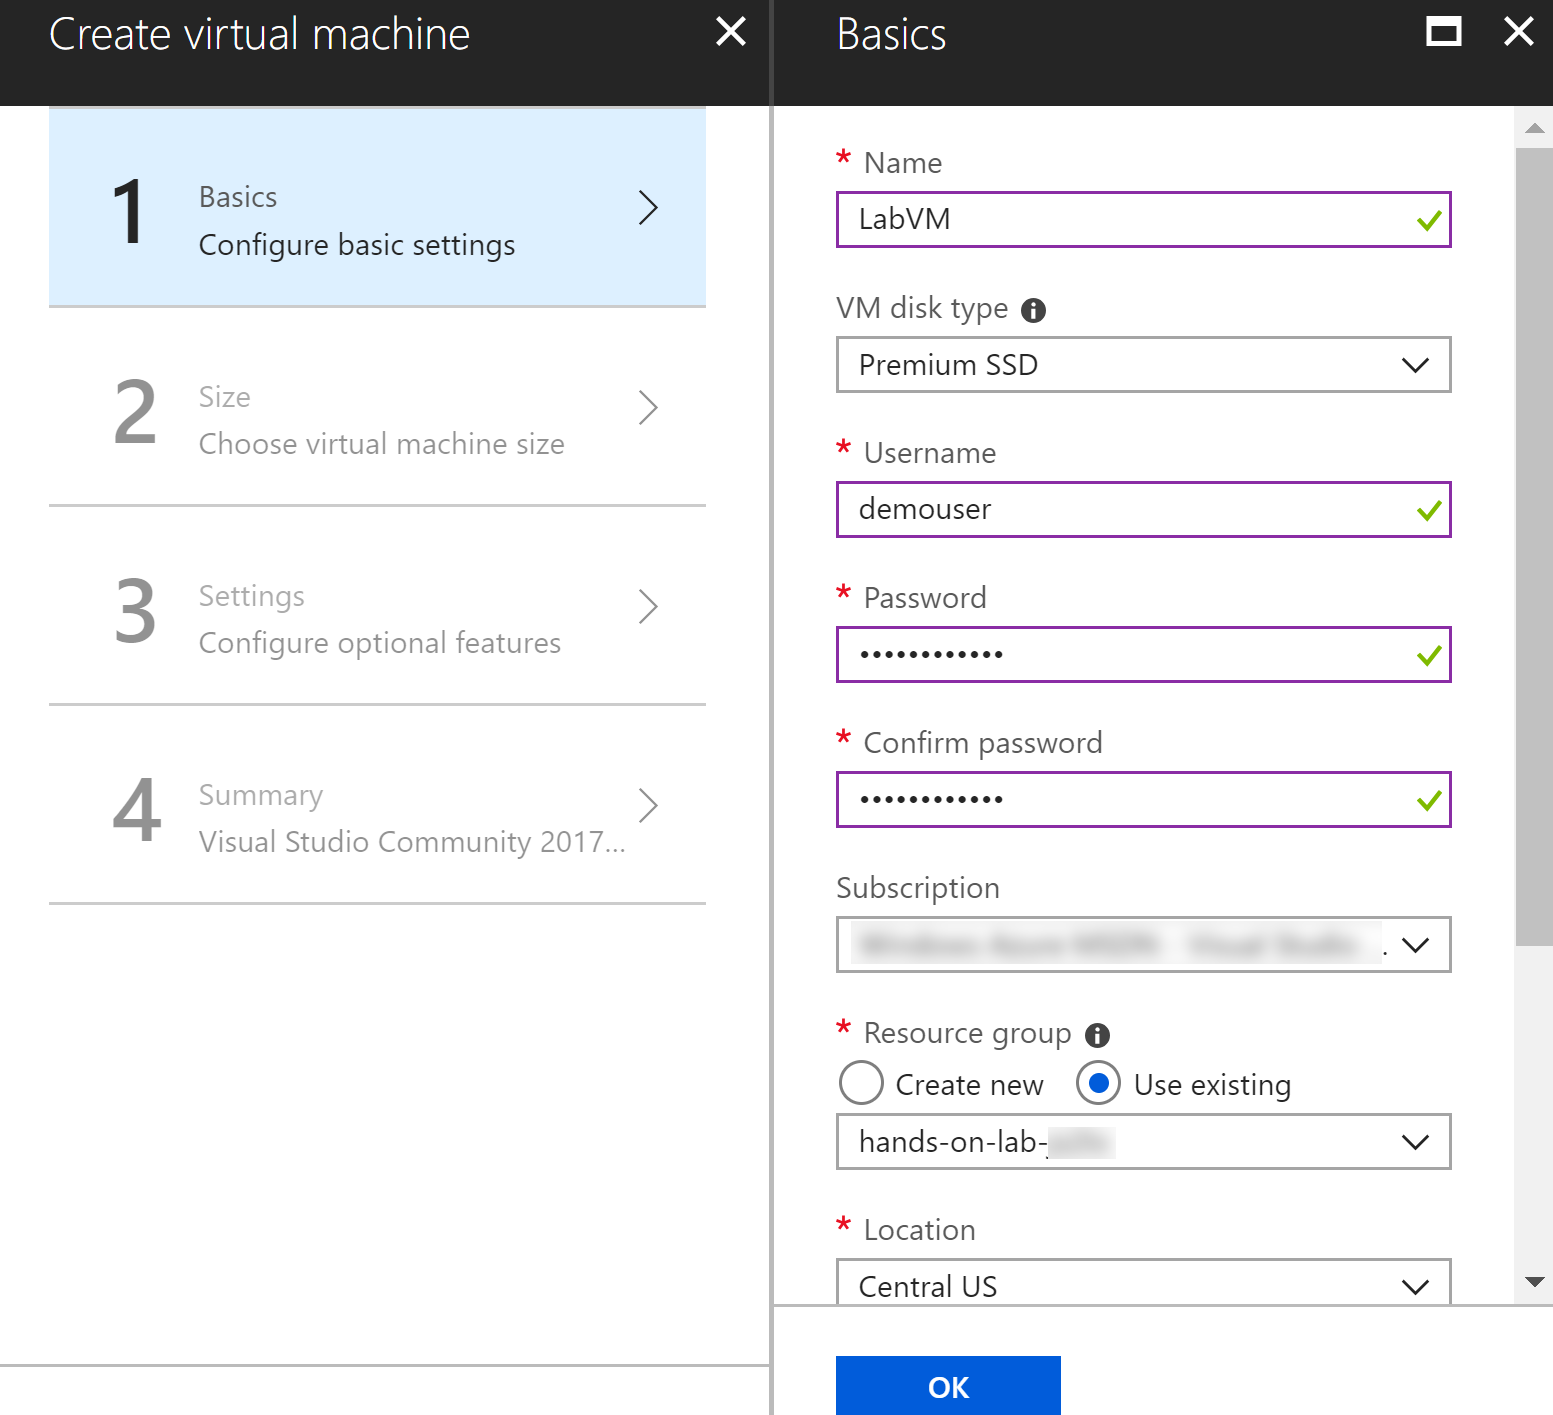
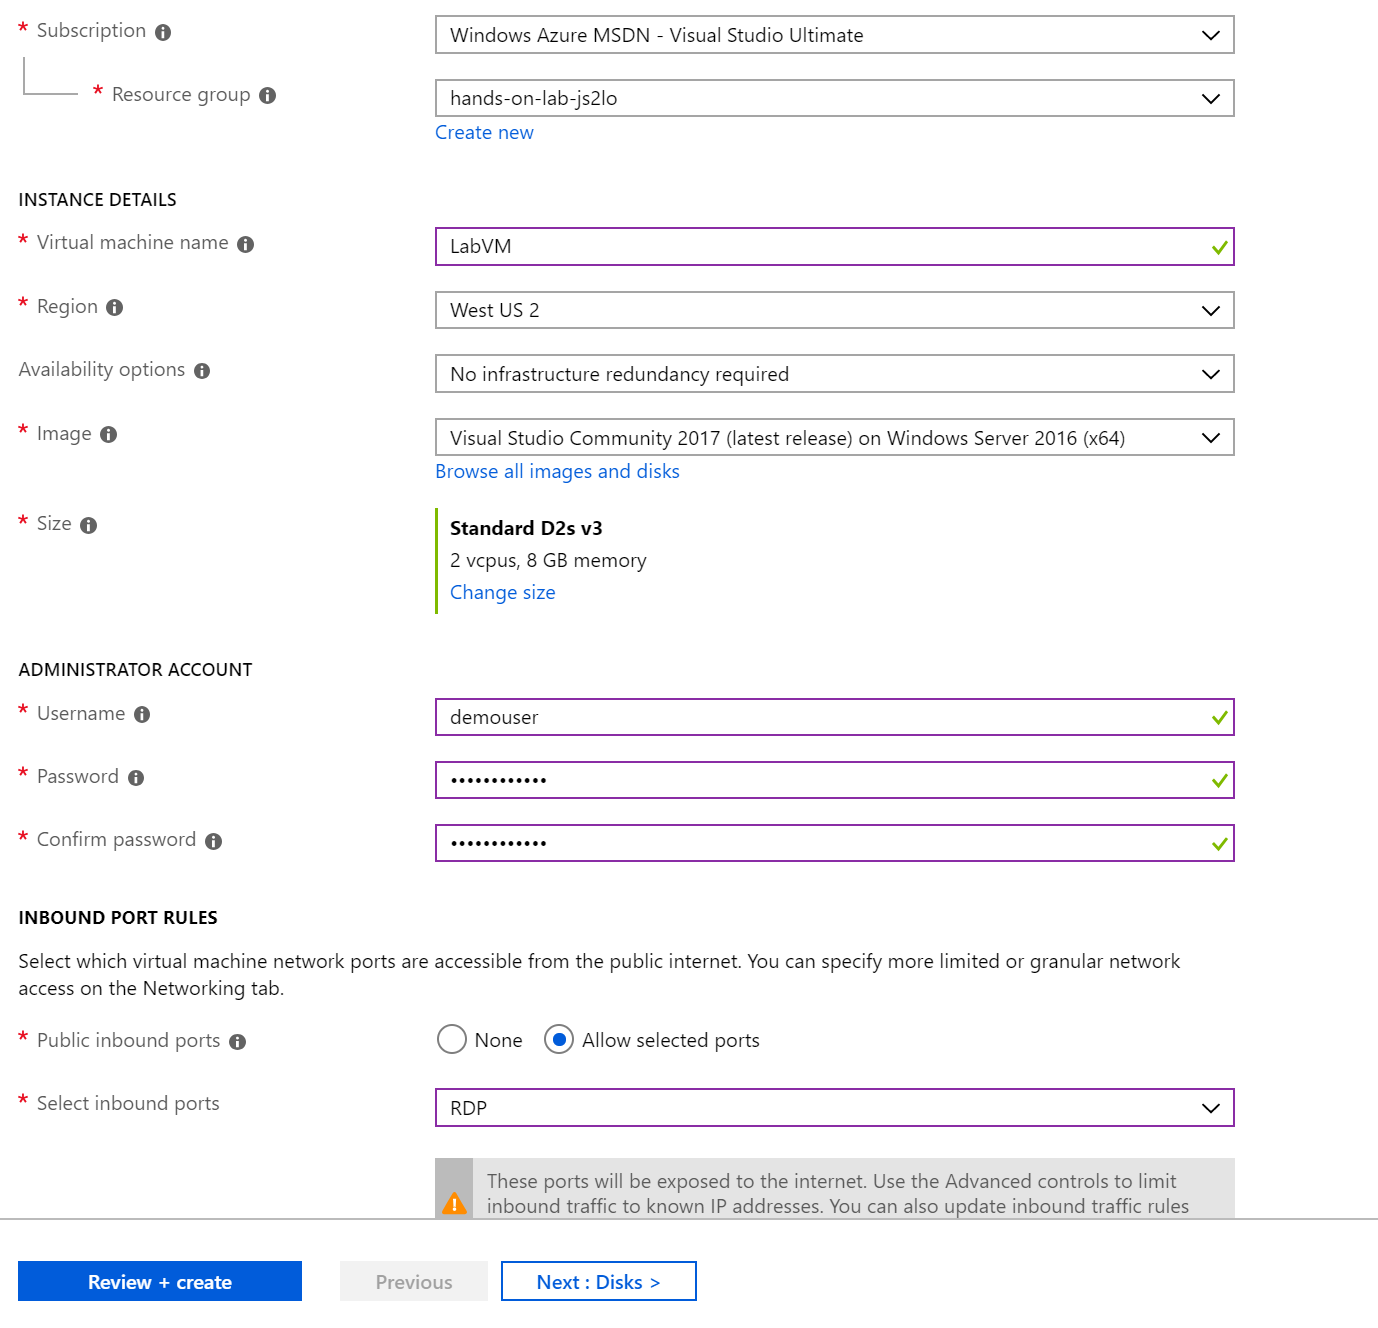
update before the hol

diff --git a/Hands-on lab/Before the HOL - App modernization.md b/Hands-on lab/Before the HOL - App modernization.md
@@ -9,7 +9,7 @@ Before the hands-on lab
 </div>
 
 <div class="MCWHeader3">
-August 2018
+November 2018
 </div>
 
 Information in this document, including URL and other Internet Web site references, is subject to change without notice. Unless otherwise noted, the example companies, organizations, products, domain names, e-mail addresses, logos, people, places, and events depicted herein are fictitious, and no association with any real company, organization, product, domain name, e-mail address, logo, person, place or event is intended or should be inferred. Complying with all applicable copyright laws is the responsibility of the user. Without limiting the rights under copyright, no part of this document may be reproduced, stored in or introduced into a retrieval system, or transmitted in any form or by any means (electronic, mechanical, photocopying, recording, or otherwise), or for any purpose, without the express written permission of Microsoft Corporation.
@@ -24,22 +24,7 @@ Microsoft and the trademarks listed at <https://www.microsoft.com/en-us/legal/in
 
 **Contents**
 
-<!-- TOC -->
-
-- [App modernization before the hands-on lab setup guide](#app-modernization-before-the-hands-on-lab-setup-guide)
-    - [Requirements](#requirements)
-    - [Before the hands-on lab](#before-the-hands-on-lab)
-        - [Task 1: Provision a resource group](#task-1-provision-a-resource-group)
-        - [Task 2: Create a development virtual machine](#task-2-create-a-development-virtual-machine)
-        - [Task 3: Connect to your Lab VM](#task-3-connect-to-your-lab-vm)
-        - [Task 4: Update Visual Studio and Install Xamarin and Android SDK](#task-4-update-visual-studio-and-install-xamarin-and-android-sdk)
-        - [Task 5: Update Android SDKs](#task-5-update-android-sdks)
-        - [Task 6: Install SQL Server 2017 Express edition](#task-6-install-sql-server-2017-express-edition)
-        - [Task 7: Install SQL Server Management Studio](#task-7-install-sql-server-management-studio)
-        - [Task 8: Download the ContosoInsurance sample application](#task-8-download-the-contosoinsurance-sample-application)
-        - [Task 9: Attach the ContosoInsurance Database](#task-9-attach-the-contosoinsurance-database)
-
-<!-- /TOC -->
+<!-- TOC -->autoauto- [App modernization before the hands-on lab setup guide](#app-modernization-before-the-hands-on-lab-setup-guide)auto    - [Requirements](#requirements)auto    - [Before the hands-on lab](#before-the-hands-on-lab)auto        - [Task 1: Provision a resource group](#task-1-provision-a-resource-group)auto        - [Task 2: Create a development virtual machine](#task-2-create-a-development-virtual-machine)auto        - [Task 3: Connect to your Lab VM](#task-3-connect-to-your-lab-vm)auto        - [Task 4: Update Visual Studio and Install Xamarin and Android SDK](#task-4-update-visual-studio-and-install-xamarin-and-android-sdk)auto        - [Task 5: Update Android SDKs](#task-5-update-android-sdks)auto        - [Task 6: Install SQL Server 2017 Express edition](#task-6-install-sql-server-2017-express-edition)auto        - [Task 7: Install SQL Server Management Studio](#task-7-install-sql-server-management-studio)auto        - [Task 8: Download the ContosoInsurance sample application](#task-8-download-the-contosoinsurance-sample-application)auto        - [Task 9: Attach the ContosoInsurance Database](#task-9-attach-the-contosoinsurance-database)autoauto<!-- /TOC -->
 
 # App modernization before the hands-on lab setup guide
 
@@ -106,33 +91,32 @@ It is recommended you use a DS2 or D2 instance size for this VM. If you decide t
 
 3.  Set the following configuration on the Basics tab:
 
-    a.  **Name**: Enter LabVM
+    a.  **Subscription**: Select the subscription you are using for this hands-on lab.
 
-    b.  **VM disk type**: Select Premium SSD
-
-    c.  **User name**: Enter demouser
-
-    d.  **Password**: Enter Password.1!!
-
-    e.  **Subscription**: Select the subscription you are using for this hands-on lab.
-
-    f.  **Resource Group**: Choose Use existing and select the hands-on-lab-SUFFIX resource group.
-
-    g.  **Location**: Select the location you are using for this hands-on-lab.
+    b.  **Resource Group**: Select the hands-on-lab-SUFFIX resource group.
     
+    c.  **Name**: Enter LabVM
+
+    d.  **Image**: Ensure **Visual Studio Community 2017 (latest release) on Windows Server 2016 (x64)** is selected.
+
+    e.  **Username**: demouser
+
+    f.  **Password**: Enter Password.1!!
+
+4. Select **Change Size** and choose D2s_v3.
+
+  !["D2s_v3 is highlighted in the list of available sizes"](media/b4-image7.png "Select VM Size")
+
+5.  On the Settings blade, locate the **Select public inbound ports** drop down, and select **RDP (3389)**     
     ![Create virtual machine basics blade with values specified above enter into the fields](media/create-labvm-resource.png "Create virtual machine basics blade")
     
-4.  Select **OK** to move to the next step.
+6.  Select **Next : Disks >** to move to the next step.
 
-5.  On the Choose a size blade, select **DS2\_V3 Standard**. ![The Choose a size blade has the D2S\_V3 Standard option circled. The circled fields are Supported disk type, which is set to SSD, and the View all button.](media/b4-image7.png "Choose a size blade")
+7.  Select **Premium SSD** as the OS Disk type.
 
-6.  Select **Select** to move on to the Settings blade.
+8.  Select **Review + create** to move on to the Validation step.
 
-7.  On the Settings blade, locate the **Select public inbound ports** drop down, and select **RDP (3389)** and **MS SQL (1433).** ![Settings blade with RDP and MS SQL inbound ports selected.](media/b4-image8.png "Create virtual machine settings blade")
-
-8.  Select **OK**.
-
-9.  Select **Create** on the Create blade to provision the virtual machine.
+9.  After Validation is complete, select **Create** on the Create blade to provision the virtual machine.
 
 10. It may take 10+ minutes for the virtual machine to complete provisioning.
 
@@ -198,7 +182,7 @@ In this task, you will add the Mobile Development with .NET workload to the Visu
 
     ![Visual Studio Installer workloads screen, with Mobile development for .NET workload highlighted.](media/b4-image19.png "Visual Studio Installer workloads")
 
-4.  While **Mobile development with .NET** is selected, look at the **Summary** panel to the right. Ensure that Android SDK Setup, Xamarin Workbooks, Java SE Development Kit, Google Android Emulator, Intel Hardware Accelerated Execution Manager, and Universal Windows Platform tools for Xamarin are selected.
+4.  While **Mobile development with .NET** is selected, look at the **Summary** panel to the right. Ensure that Android SDK Setup, Xamarin Workbooks, Google Android Emulator, Intel Hardware Accelerated Execution Manager, and Universal Windows Platform tools for Xamarin are selected.
     
     ![Summary view of the Visual Studio Installer;s Mobile development with .NET components.](media/installation-details=panel.png "Workload installation details summary")
 
